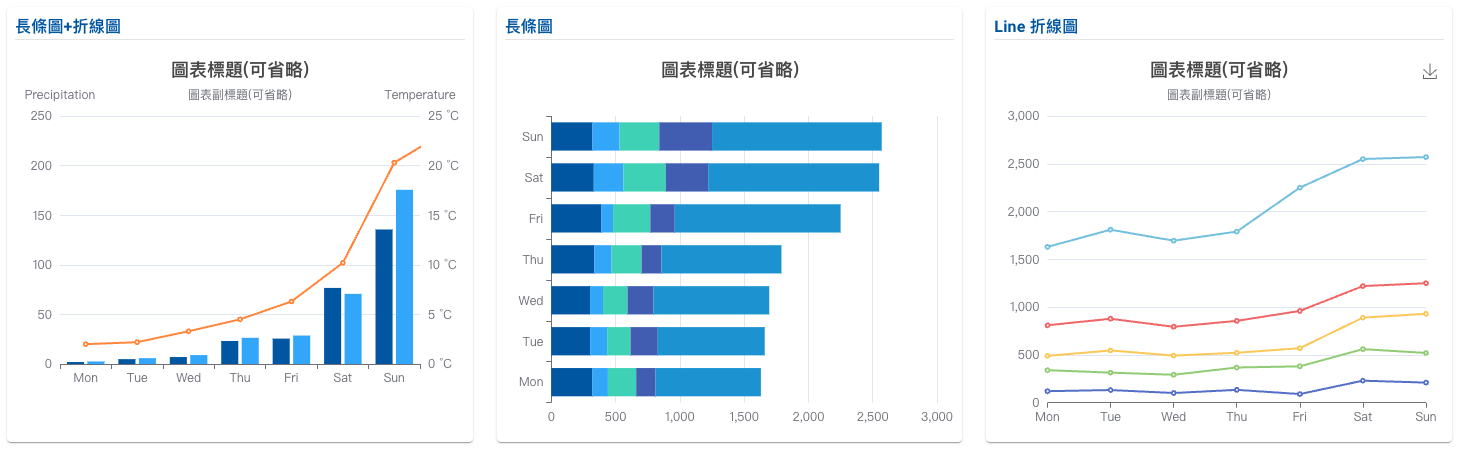
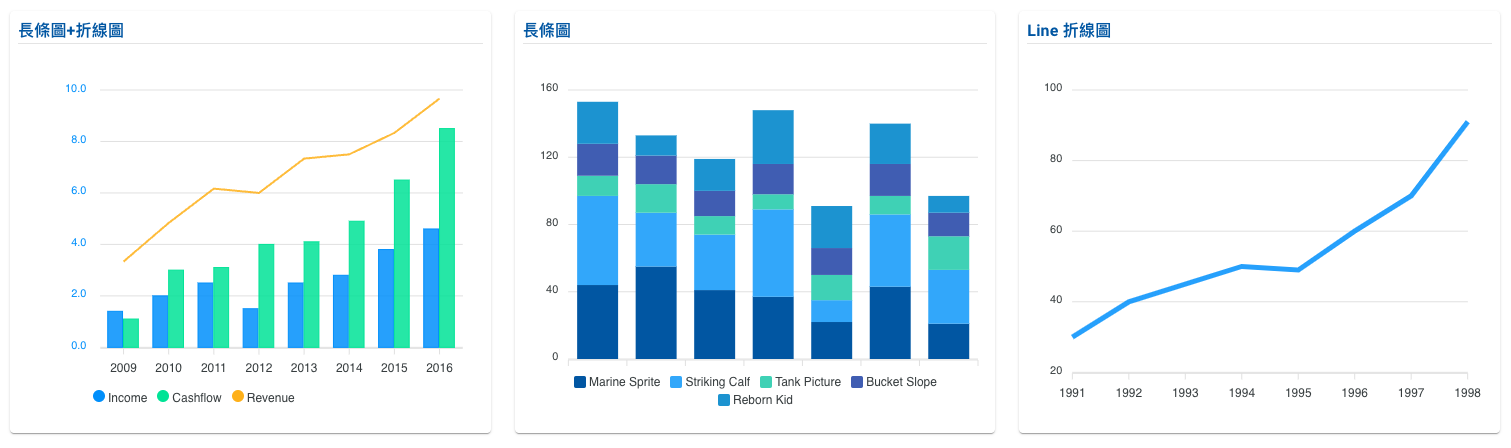
fix:更換chart 套件

diff --git a/docs/theme-ui/customize-vendor.md b/docs/theme-ui/customize-vendor.md
@@ -22,31 +22,35 @@ npm install gsap
 
 <hr style="margin-bottom:8rem;"/>
 
-## 圖表 / ECharts 運用
+## 圖表 / apexcharts 運用
 
 ?> 模板中圖表設定可參考 charts 或是其他相關圖表套件
 
-相關圖表設定 請詳閱 [echarts.js](https://echarts.apache.org/zh/index.html) 套件 及[Vue-Echarts](https://vue-echarts.dev/) 套件
+相關圖表設定 請詳閱 [apexcharts](https://apexcharts.com/vue-chart-demos/) 套件
 
 <img  src="doc_img/img_chart.png"></img>
 
-引入套件
+安裝套件
+
+可參考相關[文件連結](https://apexcharts.com/docs/vue-charts/)
 
 ```bash
-npm install echarts
+npm install --save apexcharts
+npm install --save vue3-apexcharts
 ```
 
-或是 引入套件
+在專案中 引入套件
 
-```bash
-npm i echarts vue-echarts
+```javascript
+//main.js
+import VueApexCharts from 'vue3-apexcharts';
 ```
 
 引入元件
 
 ```vue
 <template>
-  <v-chart class="chart" :option="option" autoresize />
+  <apexchart type="line" :options="options" :series="series"></apexchart>
 </template>
 ```
 
